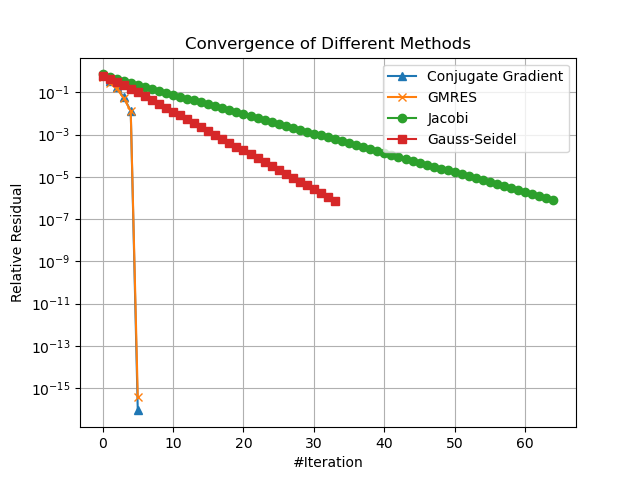
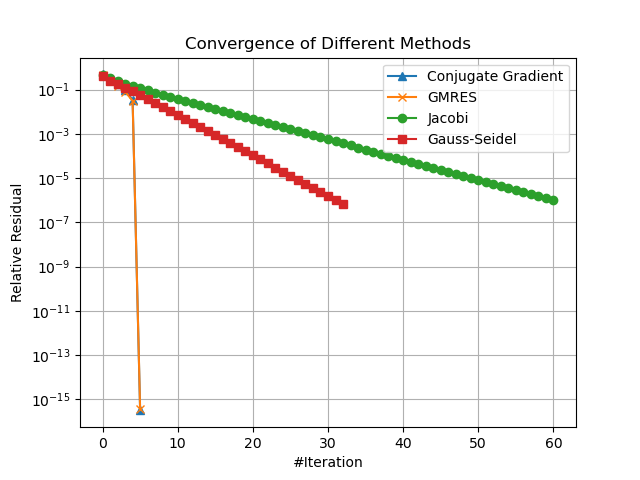
adjusted the experiment so we know the sol exacte

diff --git a/Solvers/ex1.c b/Solvers/ex1.c
@@ -70,7 +70,7 @@ void build_csr_stencil(const int N, int **row_ptr, int **col_idx, double **value
 }
 
 // Create an example b vector
-void build_rhs(const int n, double **b){
+void build_vec(const int n, double **b){
     *b = (double*) malloc(n * sizeof(double));
     for(int i = 0; i < n; i++) {
         (*b)[i] = 0.1*i;
@@ -597,9 +597,11 @@ int main()
     int *row_ptr = NULL;
     int *col_idx = NULL;
     double *vals = NULL;
-    double *b = NULL;
+    double *sol_exacte = NULL;
+    double *b = (double*) malloc(n * sizeof(double)); //RHS = y
     build_csr_stencil(N, &row_ptr, &col_idx, &vals);
-    build_rhs(n, &b);
+    build_vec(n, &sol_exacte); //x
+    csr_matvec(n, row_ptr, col_idx, vals, sol_exacte, b);
 
     // Solve with Jacobi
     double *res_jac = NULL; //solution x
